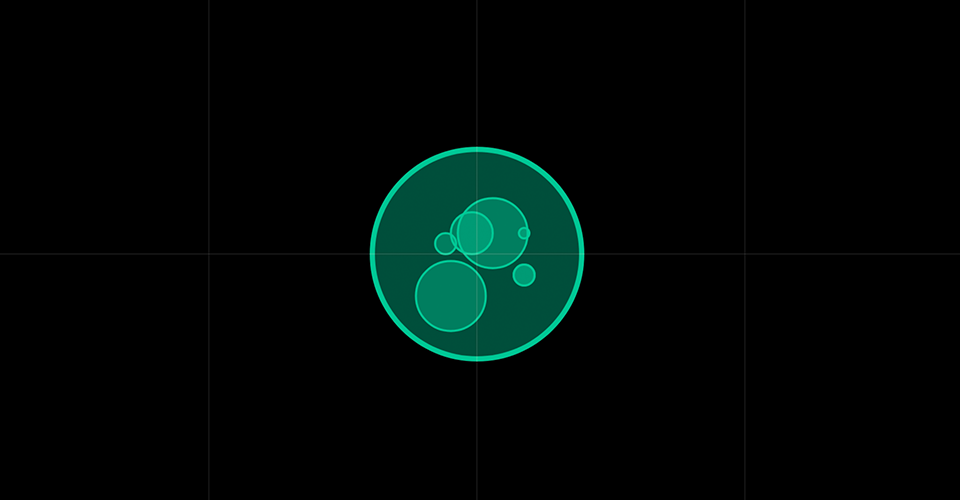
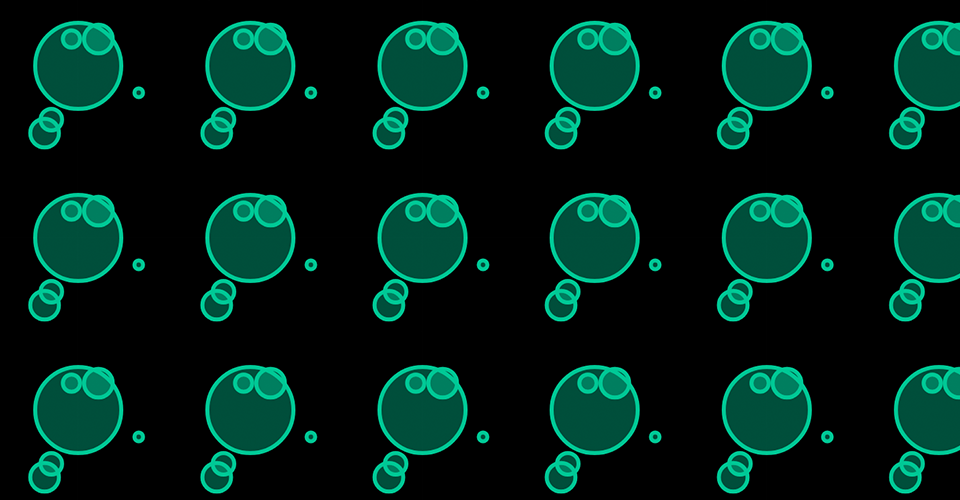
more progress wew lads,

diff --git a/drawgrid.js b/drawgrid.js
@@ -9,8 +9,8 @@
  *
  * The destination drawing should be in the square 0, 0, 255, 255.
  */
-
-const grid_size = 64;
+const cellwidth = 64;
+const grid_size = 128;
 /* the random number seed for the tour */
 var tourSeed = 301;
 /* triplets of locations: zoom, x, y */
@@ -27,7 +27,10 @@ var tourPath = [
 
 function drawGrid(p5, x1, x2, y1, y2, z, zoom) {
   // temporary variables used for object placement
-  let max_shift = 0;
+  p5.background(0);
+  p5.rectMode(p5.CORNERS);
+
+  let max_shift = 100;
 
   /* this rectangle defines the region that will be drawn and includes a margin */
   let min_x = snap_to_grid(x1 - max_shift, grid_size);
@@ -35,15 +38,60 @@ function drawGrid(p5, x1, x2, y1, y2, z, zoom) {
   let min_y = snap_to_grid(y1 - max_shift, grid_size);
   let max_y = snap_to_grid(y2 + max_shift + grid_size, grid_size);
 
-  p5.background(0);
-  p5.rectMode(p5.CORNERS);
-  let cellwidth = 200;
+  let centerpoint = p5.map(0, x1, x2, 0, 256);
+  let centerCell = p5.map(cellwidth, x1, x2, 0, 256);
+  let curCellRadius = centerCell - centerpoint;
 
+  
+  
 
- 
  	centerx = p5.map(512, x1, x2, 0, 256);
   	centery = p5.map(512, y1, y2, 0, 256);
-  
+
+  	for(let x=min_x; x<max_x; x+=grid_size) 
+  	{
+
+    	for(let y=min_y; y<max_y; y+=grid_size) 
+    	{
+    		
+    			p5.stroke(0, 200, 150);
+			  	p5.strokeWeight(3);
+			  	p5.fill(0, 200, 150,100);
+
+			let x_pos = p5.map(x, x1, x2, 0, 256);
+      		let y_pos = p5.map(y, y1, y2, 0, 256);				
+				p5.ellipse(x_pos, y_pos, curCellRadius);
+
+				x_pos = p5.map(x-20, x1, x2, 0, 256);
+      			y_pos = p5.map(y+40, y1, y2, 0, 256);
+				p5.ellipse(x_pos, y_pos, curCellRadius/4);
+
+				x_pos = p5.map(x+45, x1, x2, 0, 256);
+      			y_pos = p5.map(y+20, y1, y2, 0, 256);
+				p5.ellipse(x_pos, y_pos, curCellRadius/10);
+
+				x_pos = p5.map(x-5, x1, x2, 0, 256);
+      			y_pos = p5.map(y-20, y1, y2, 0, 256);  
+				p5.ellipse(x_pos, y_pos, curCellRadius/5);
+
+				x_pos = p5.map(x+15, x1, x2, 0, 256);
+      			y_pos = p5.map(y-20, y1, y2, 0, 256); 	
+				p5.ellipse(x_pos, y_pos, curCellRadius/3);
+				
+				x_pos = p5.map(x-25, x1, x2, 0, 256);
+      			y_pos = p5.map(y+50, y1, y2, 0, 256); 	
+				p5.ellipse(x_pos, y_pos, curCellRadius/3); 
+
+
+    	}
+
+  	}
+
+
+
+
+
+
   // Two ellipses with a radius of 50 units are then added.
 //--------------------------------------------------------External cell
   
@@ -108,10 +156,10 @@ function drawGrid(p5, x1, x2, y1, y2, z, zoom) {
 	  }
 
 	// debug - show border
-   //p5.noFill();
-   //p5.strokeWeight(1);
-   //p5.stroke(255, 0, 0)
-   //.rect(0, 0, 255, 255);
+  // p5.noFill();
+  // p5.strokeWeight(1);
+  // p5.stroke(255, 0, 0)
+  // p5.rect(0, 0, 255, 255);
 }
 
 

diff --git a/README.md b/README.md
@@ -1,14 +1,15 @@
 ## PS4 MDDN 342 2018
 
-Part 1
+
 
 In my example I was inspired by fractal coasts and cells. I like the theory that coasts are fractal and the furthur you zoom into one the more coast you see leading to technically infinite coastline. I also liked the imagry of zooming into cells where somthing small has incredible complexity within it that is only revealed when zooming in.
 
-Part 2
 
 I have completed part 2 by drawing various circles within eahc other with an alpha value to try and simulate the idea of translucency in the liquid cell interior, i only created one cell as in the future I want to parametise this single shape and then procedurally create a vast array of them.
 I initially found it tricky as to understand the exact location of where to alter the parameters to make it scale properly but worked it out after a long period of trial and error.
 I want to make more detail appear at higher zooms for instance make certain structures appear like mitocondria or choloroplasts or somthing along those lines. Even maybe chromosomes and dna.
+
+I have worked my idea into a tiling pattern which is nice as the design now spreads to infinity. the next step is to add layers to the design then implement noise in the distribution to appear more natural, then i want to have subtle animation in the parts to simulate floating around like cells do BOOM! THERES HOPE FOR THE FUTURE.
 
 Also update both images keeping their original sizes:
 preview.png (960x500) and thumbnail.png (230x120).
